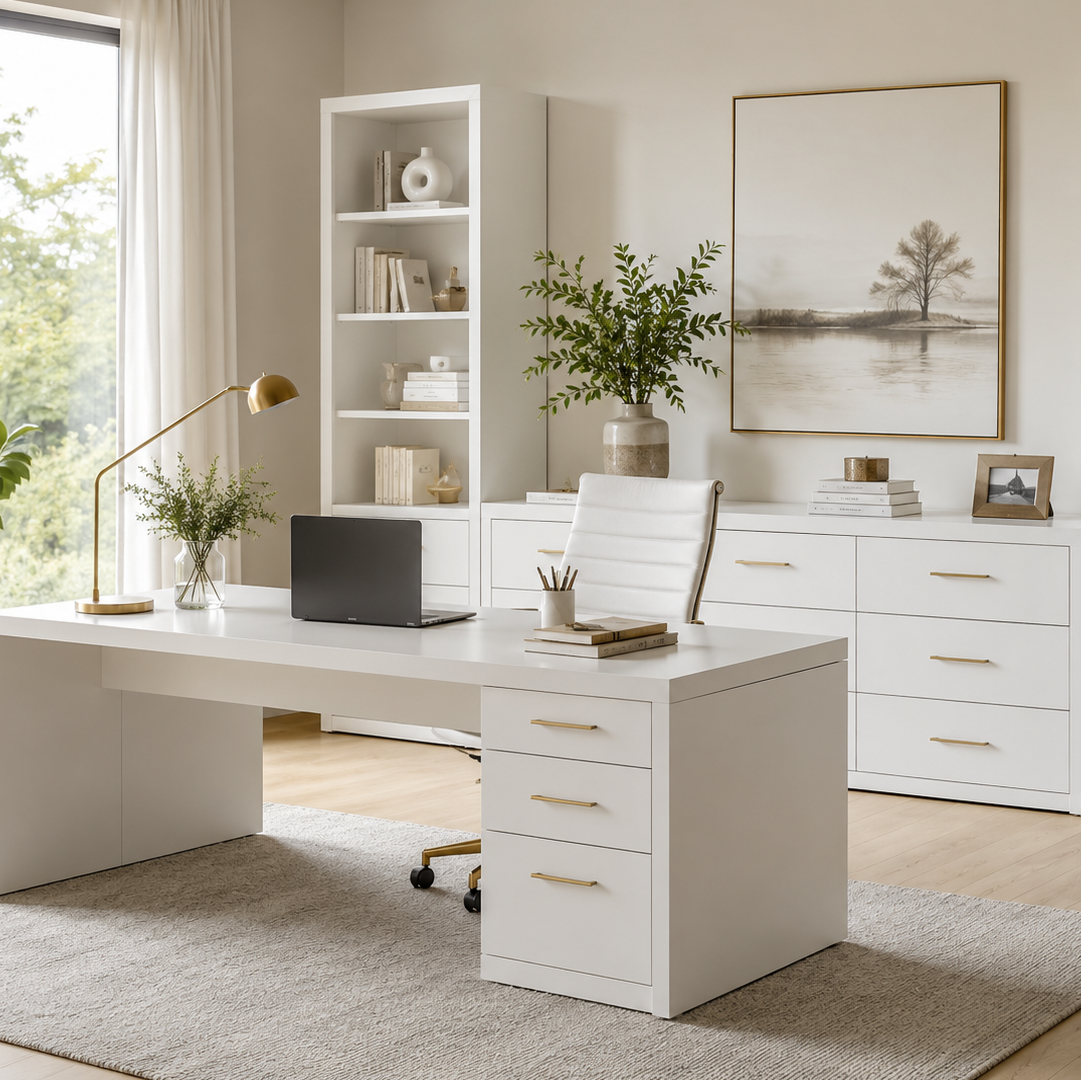
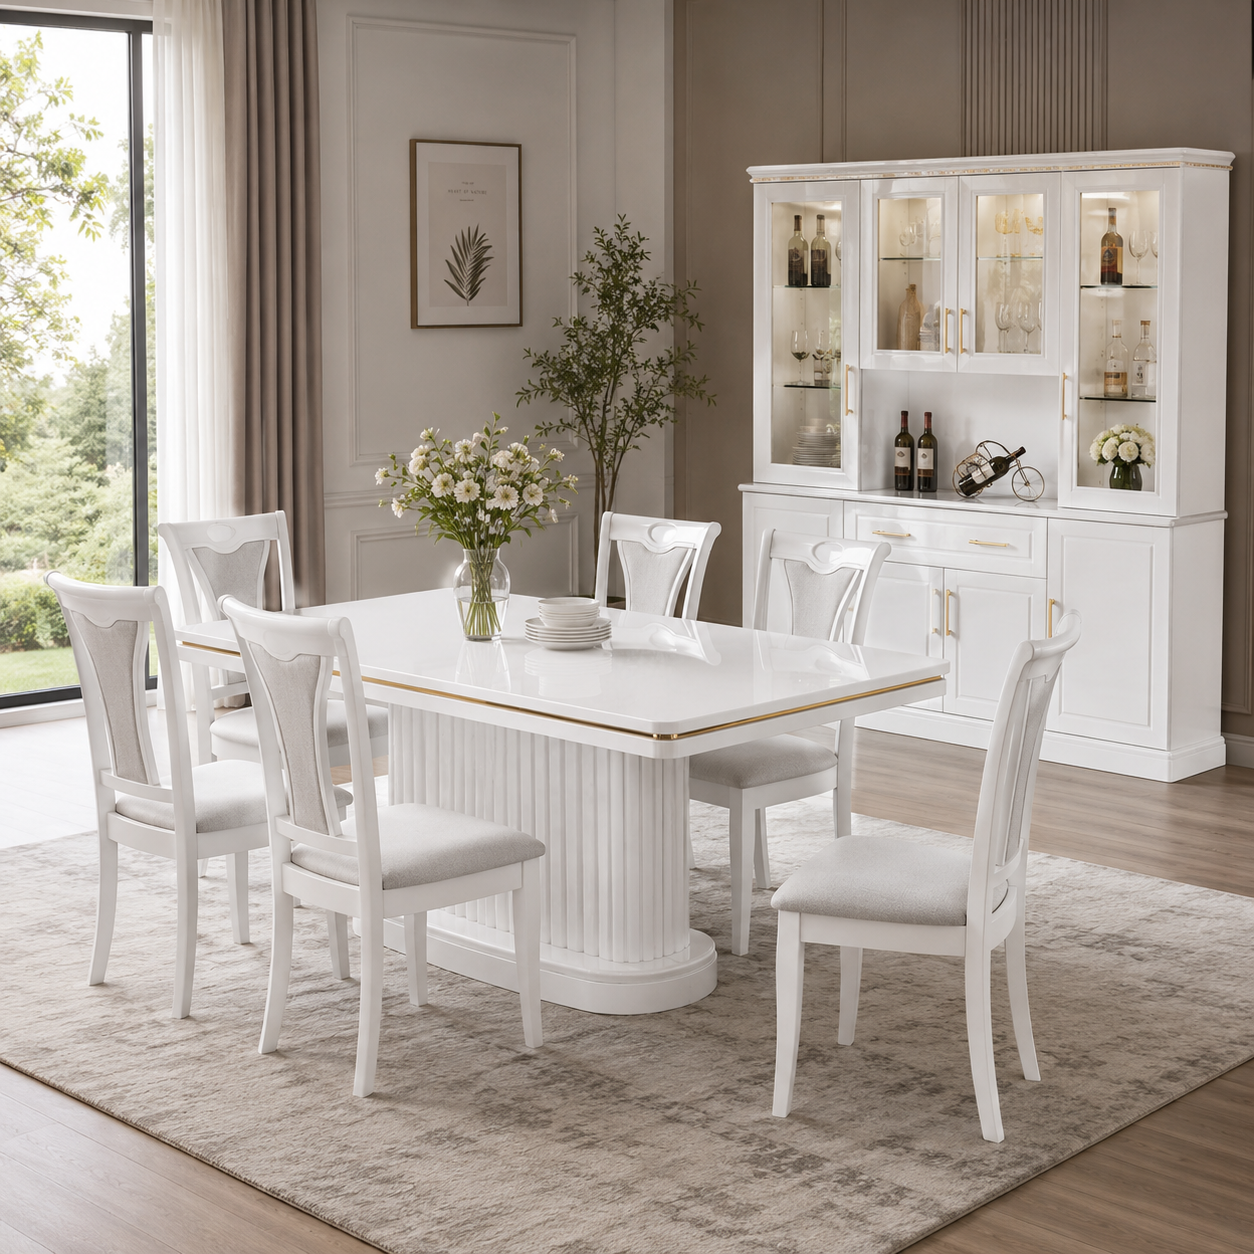
Update admin login/logout, functions.php and index.php

diff --git a/includes/functions.php b/includes/functions.php
@@ -338,7 +338,9 @@ function clearRememberToken($pdo) {
  * @param PDO $pdo
  */
 function autoLoginFromCookie($pdo) {
-    if (isLoggedIn()) return;
+    // Customer and admin sessions live in separate keys, so re-run for admin
+    // even when a customer session already exists.
+    if (isLoggedIn() && isAdmin()) return;
 
     $token = $_COOKIE['remember_token'] ?? '';
     if (empty($token)) return;
@@ -360,13 +362,23 @@ function autoLoginFromCookie($pdo) {
             return;
         }
 
-        // Restore session
-        $_SESSION['user_id']      = $row['user_id'];
-        $_SESSION['user_name']    = $row['name'];
-        $_SESSION['user_email']   = $row['email'];
-        $_SESSION['user_is_admin'] = $row['is_admin'];
-        $_SESSION['logged_in']    = true;
-        $_SESSION['login_time']   = time();
+        if (!isLoggedIn()) {
+            $_SESSION['user_id']       = $row['user_id'];
+            $_SESSION['user_name']     = $row['name'];
+            $_SESSION['user_email']    = $row['email'];
+            $_SESSION['user_is_admin'] = $row['is_admin'];
+            $_SESSION['logged_in']     = true;
+            $_SESSION['login_time']    = time();
+        }
+
+        // Admin gating reads $_SESSION['admin_id'] specifically — restore it
+        // here so admins don't have to re-OTP after the PHP session expires.
+        if ($row['is_admin'] == 1 && empty($_SESSION['admin_id'])) {
+            $_SESSION['admin_id']       = $row['user_id'];
+            $_SESSION['admin_name']     = $row['name'];
+            $_SESSION['admin_email']    = $row['email'];
+            $_SESSION['admin_login_at'] = time();
+        }
 
         // Rotate token for security
         $stmt = $pdo->prepare('DELETE FROM remember_tokens WHERE token_hash = ?');

diff --git a/index.php b/index.php
@@ -227,7 +227,7 @@ try {
                             <div class="sld_content text-center">
                                 <div class="container">
                                     <div class="content-sld_wrap">
-                                        <p class="sub-title_sld h6 text-primary fade-item fade-item-1">
+                                        <p class="sub-title_sld h5 text-primary fade-item fade-item-1">
                                             UP TO 70% OFF
                                         </p>
                                         <h1 class="title_sld text-display fade-item fade-item-2"
@@ -262,7 +262,7 @@ try {
                             <div class="sld_content text-center">
                                 <div class="container">
                                     <div class="content-sld_wrap">
-                                        <p class="sub-title_sld h6 text-primary fade-item fade-item-1">
+                                        <p class="sub-title_sld h5 text-primary fade-item fade-item-1">
                                             CUSTOM-MADE FURNITURE
                                         </p>
                                         <h1 class="title_sld text-display fade-item fade-item-2"
@@ -297,7 +297,7 @@ try {
                             <div class="sld_content text-center">
                                 <div class="container">
                                     <div class="content-sld_wrap">
-                                        <p class="sub-title_sld h6 text-primary fade-item fade-item-1">
+                                        <p class="sub-title_sld h5 text-primary fade-item fade-item-1">
                                             HOME DÉCOR COLLECTION
                                         </p>
                                         <h1 class="title_sld text-display fade-item fade-item-2"

diff --git a/admin/login.php b/admin/login.php
@@ -55,6 +55,9 @@ if ($_SERVER['REQUEST_METHOD'] === 'POST') {
                 unset($_SESSION['pending_admin_id'], $_SESSION['pending_admin_email'],
                       $_SESSION['pending_admin_name'], $_SESSION['pending_admin_step'],
                       $_SESSION['rate_limit_admin_login']);
+                // Issue a 30-day remember-me cookie so the admin doesn't need to
+                // re-OTP every time the PHP session expires.
+                storeRememberToken($pdo, $adminId);
                 error_log('Admin login OK for ' . $adminEmail . ' from ' . ($_SERVER['REMOTE_ADDR'] ?? '?'));
                 redirect('dashboard.php');
             }

diff --git a/admin/logout.php b/admin/logout.php
@@ -1,5 +1,6 @@
 <?php
 require __DIR__ . '/../includes/init.php';
-unset($_SESSION['admin_id']);
+clearRememberToken($pdo);
+unset($_SESSION['admin_id'], $_SESSION['admin_name'], $_SESSION['admin_email'], $_SESSION['admin_login_at']);
 session_destroy();
 redirect('login.php');